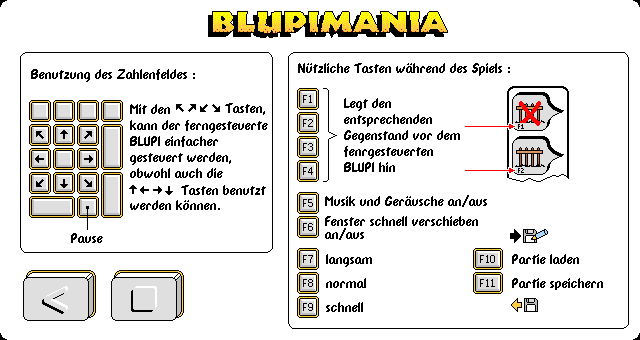
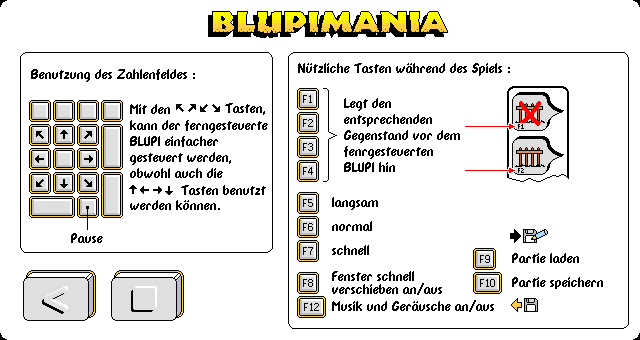
Use a more adapted to PC keyboard key mapping

Changed region(s): [[0.4375, 0.5588, 0.7812, 0.9412], [0.75, 0.7353, 0.9375, 0.8529]]

diff --git a/src/play.c b/src/play.c
@@ -5408,7 +5408,7 @@ PlayEvent (int key, Pt pos, SDL_bool next)
       return 1;
     }
 
-    if (key == KEYF5) /* bruitages oui/non */
+    if (key == KEYF12) /* bruitages oui/non */
     {
       if (fj.noisevolume == 0)
       {
@@ -5433,7 +5433,7 @@ PlayEvent (int key, Pt pos, SDL_bool next)
       return 1;
     }
 
-    if (key == KEYF6) /* décalage progressif/rapide */
+    if (key == KEYF8) /* décalage progressif/rapide */
     {
       if (fj.scroll)
         fj.scroll = 0;
@@ -5442,17 +5442,17 @@ PlayEvent (int key, Pt pos, SDL_bool next)
       return 1;
     }
 
-    if (key == KEYF7) /* vitesse = tortue */
+    if (key == KEYF5) /* vitesse = tortue */
     {
       fj.vitesse = 0;
       return 1;
     }
-    if (key == KEYF8) /* vitesse = normal */
+    if (key == KEYF6) /* vitesse = normal */
     {
       fj.vitesse = 1;
       return 1;
     }
-    if (key == KEYF9) /* vitesse = guépard */
+    if (key == KEYF7) /* vitesse = guépard */
     {
       fj.vitesse = 2;
       return 1;

diff --git a/src/smaky.c b/src/smaky.c
@@ -587,14 +587,17 @@ SDLEventToSmakyKey (const SDL_Event * event)
     case SDLK_F4:
       key = KEYF4;
       break;
-    case SDLK_F10:
+    case SDLK_F9:
       key = KEYSAVE;
       break;
-    case SDLK_F11:
+    case SDLK_F10:
       key = KEYLOAD;
       break;
-    case SDLK_F12:
+    case SDLK_F11:
       key = KEYIO;
+      break;
+    case SDLK_F12:
+      key = KEYF12;
       break;
     case SDLK_KP_7:
       if (g_pause || g_typejeu != 1 || g_modetelecom == 1)
@@ -638,9 +641,6 @@ SDLEventToSmakyKey (const SDL_Event * event)
       break;
     case SDLK_F8:
       key = KEYF8;
-      break;
-    case SDLK_F9:
-      key = KEYF9;
       break;
 #ifdef DEBUG
     case SDLK_PAGEDOWN:
